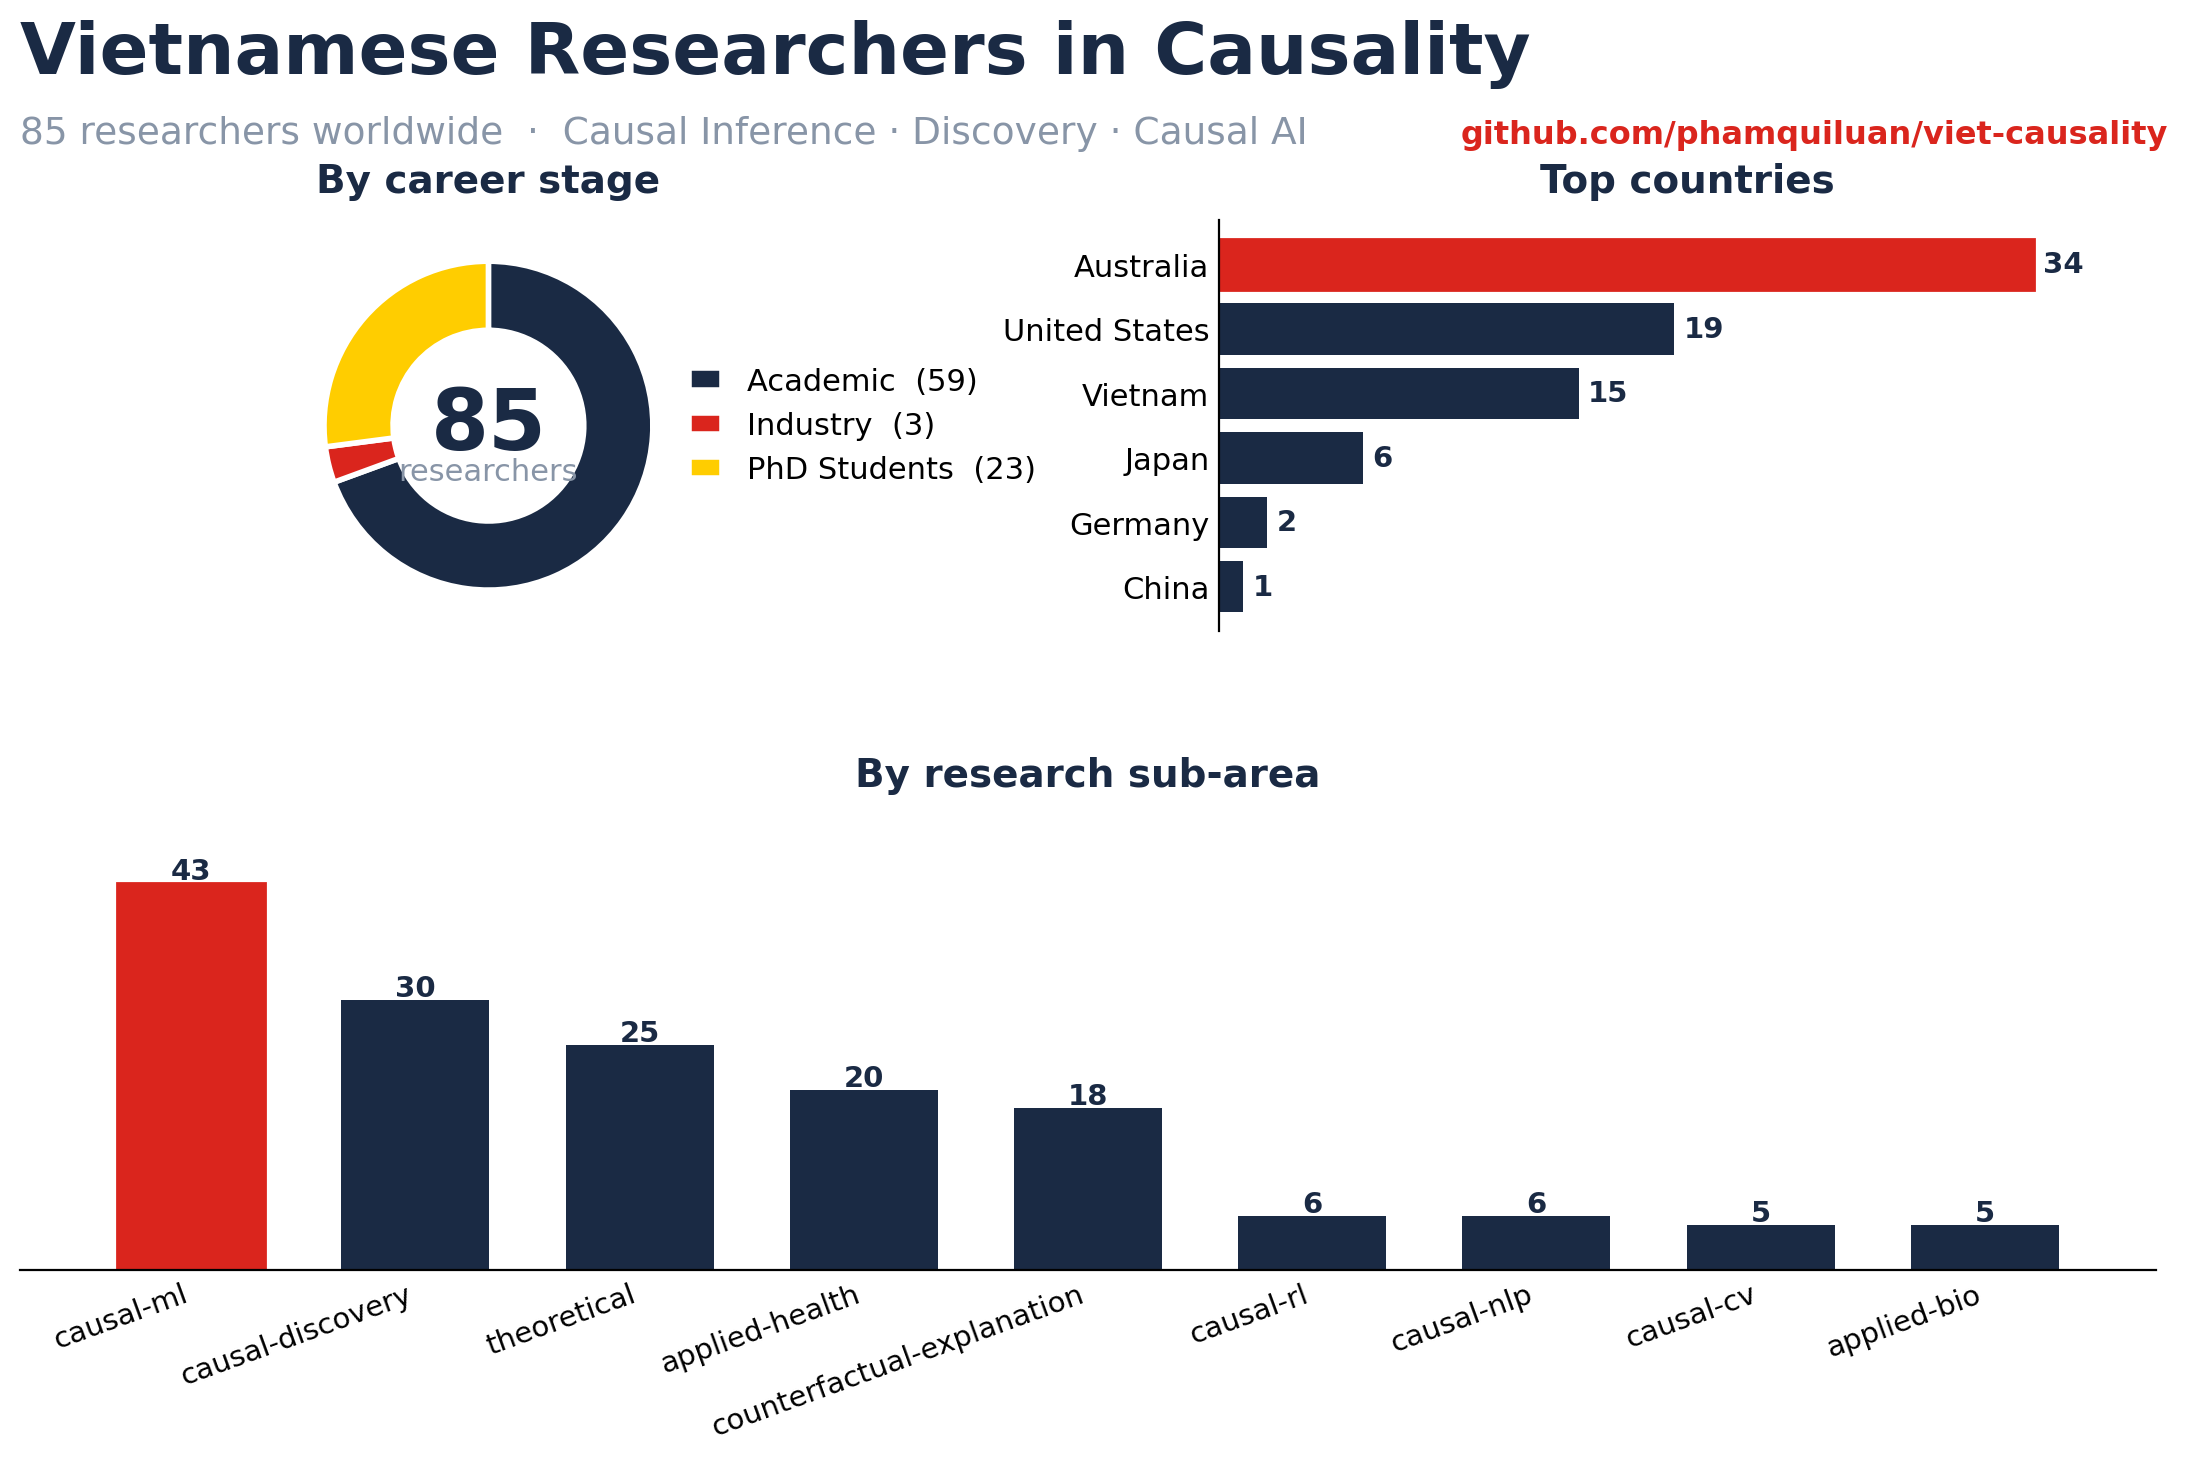
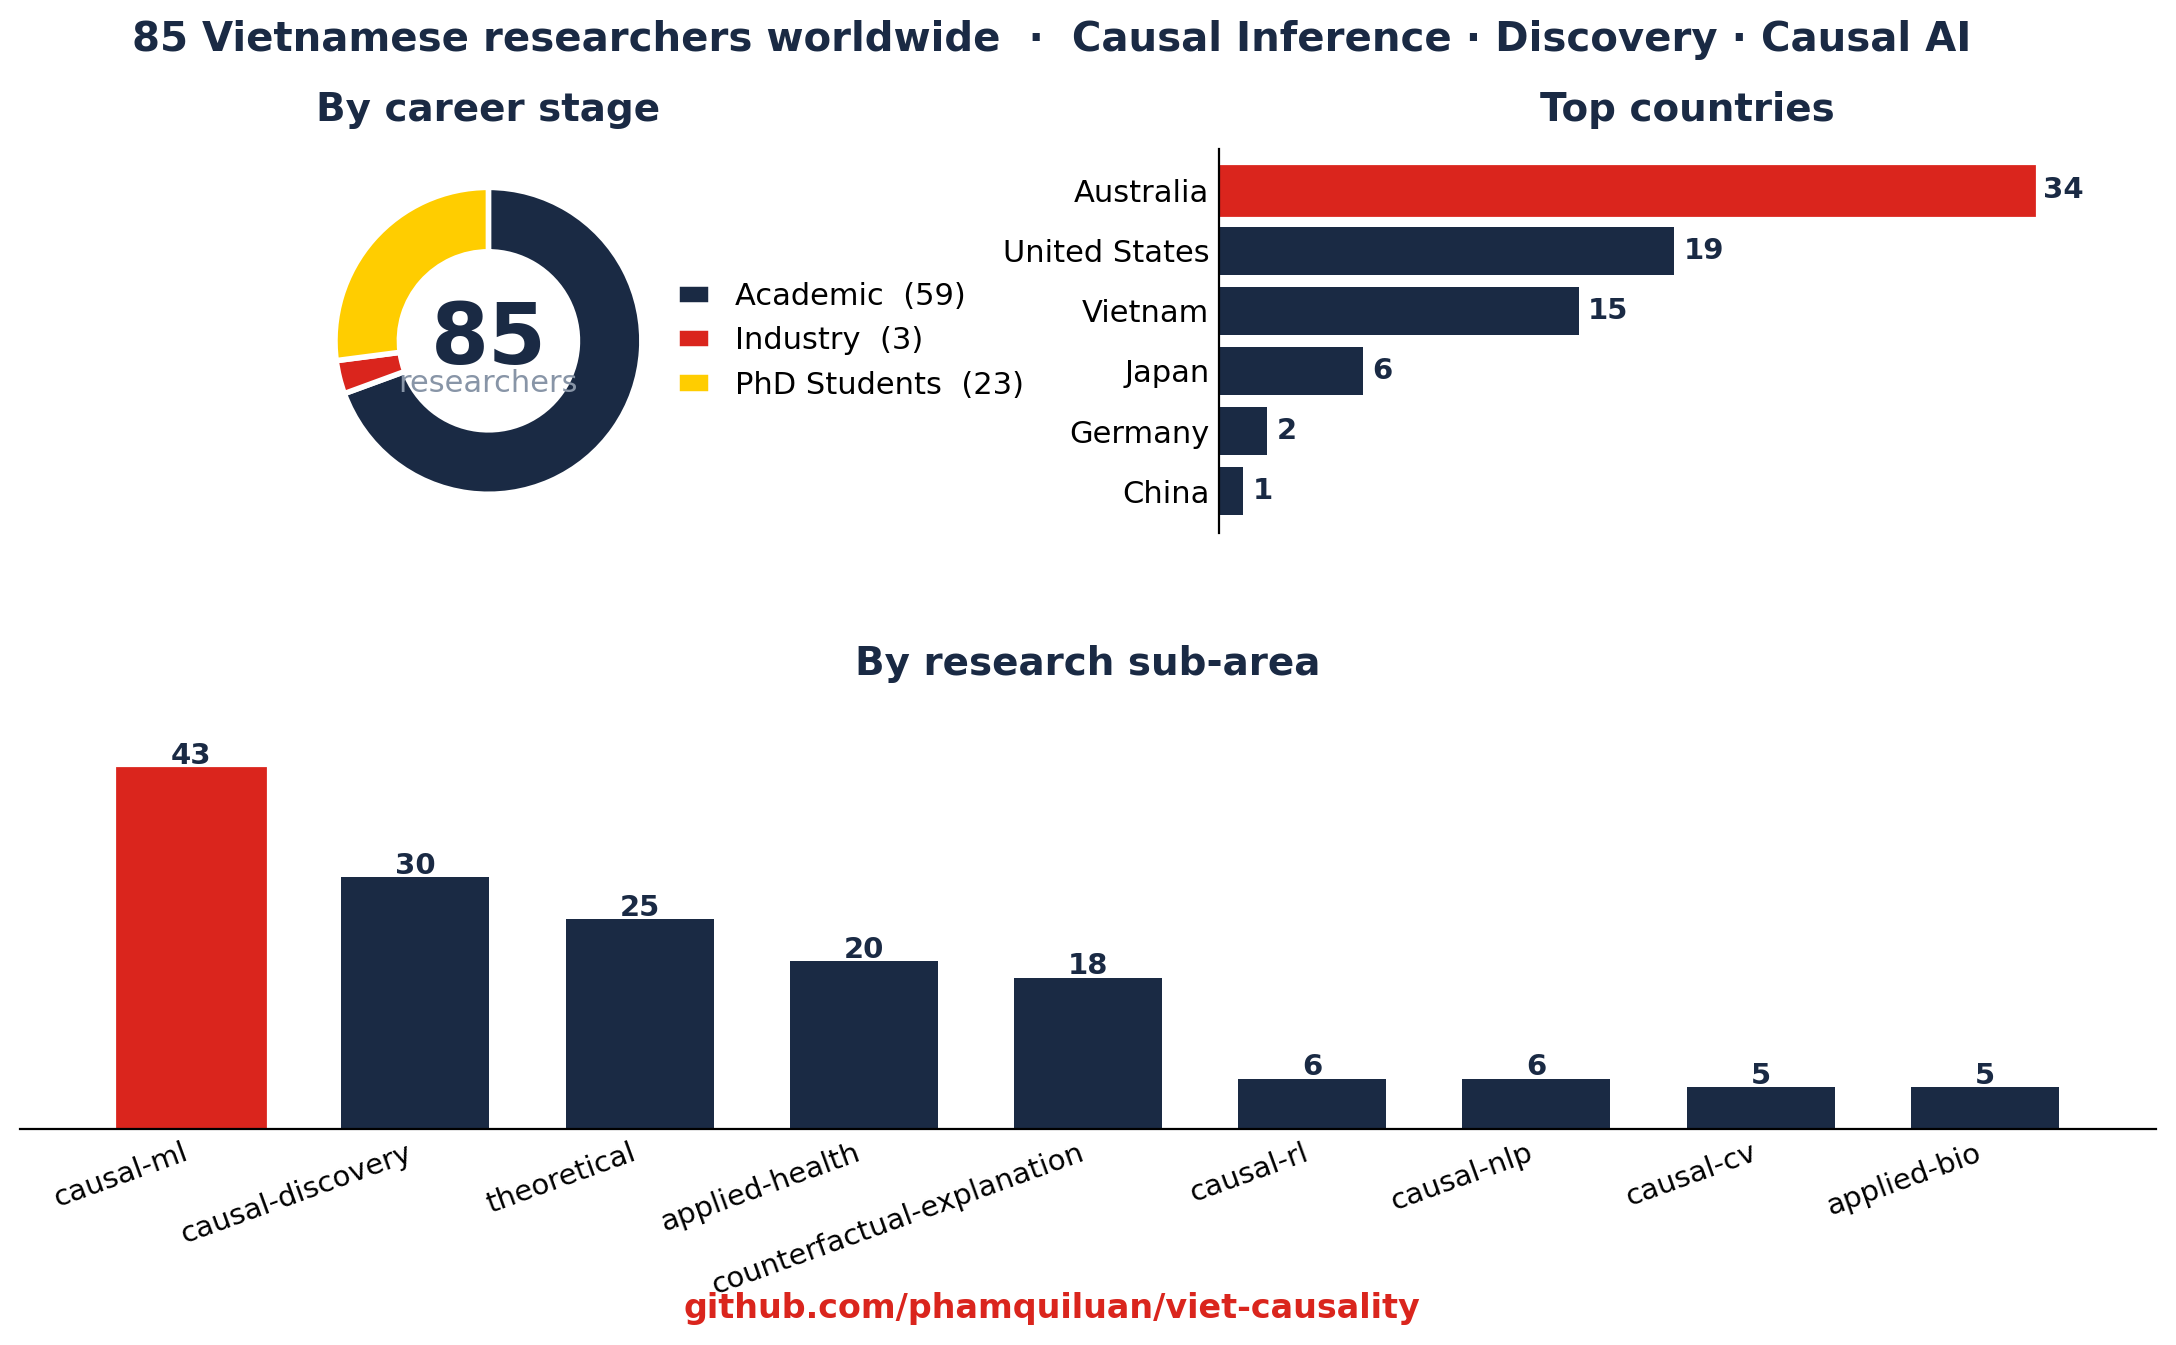
figure: drop redundant title; move URL to footer

diff --git a/scripts/make_figure.py b/scripts/make_figure.py
@@ -36,15 +36,14 @@ plt.rcParams.update({"font.family": "DejaVu Sans"})
 fig = plt.figure(figsize=(12, 7), dpi=200)
 fig.patch.set_facecolor("white")
 gs = GridSpec(2, 2, height_ratios=[0.9, 1.0], hspace=0.42, wspace=0.28,
-              left=0.07, right=0.96, top=0.84, bottom=0.09)
+              left=0.07, right=0.96, top=0.86, bottom=0.16)
 
 # ---- Header ----
-fig.text(0.07, 0.945, "Vietnamese Researchers in Causality", fontsize=26,
-         fontweight="bold", color=NAVY, ha="left")
-fig.text(0.07, 0.895, f"{len(d)} researchers worldwide  ·  Causal Inference · Discovery · Causal AI",
-         fontsize=13.5, color=GREY, ha="left")
-fig.text(0.965, 0.895, "github.com/phamquiluan/viet-causality", fontsize=11.5,
-         color=RED, ha="right", fontweight="bold")
+fig.text(0.5, 0.93, f"{len(d)} Vietnamese researchers worldwide  ·  Causal Inference · Discovery · Causal AI",
+         fontsize=14.5, color=NAVY, fontweight="bold", ha="center")
+# ---- Footer ----
+fig.text(0.5, 0.025, "github.com/phamquiluan/viet-causality", fontsize=12,
+         color=RED, ha="center", fontweight="bold")
 
 # ---- Top-left: category donut ----
 ax1 = fig.add_subplot(gs[0, 0])